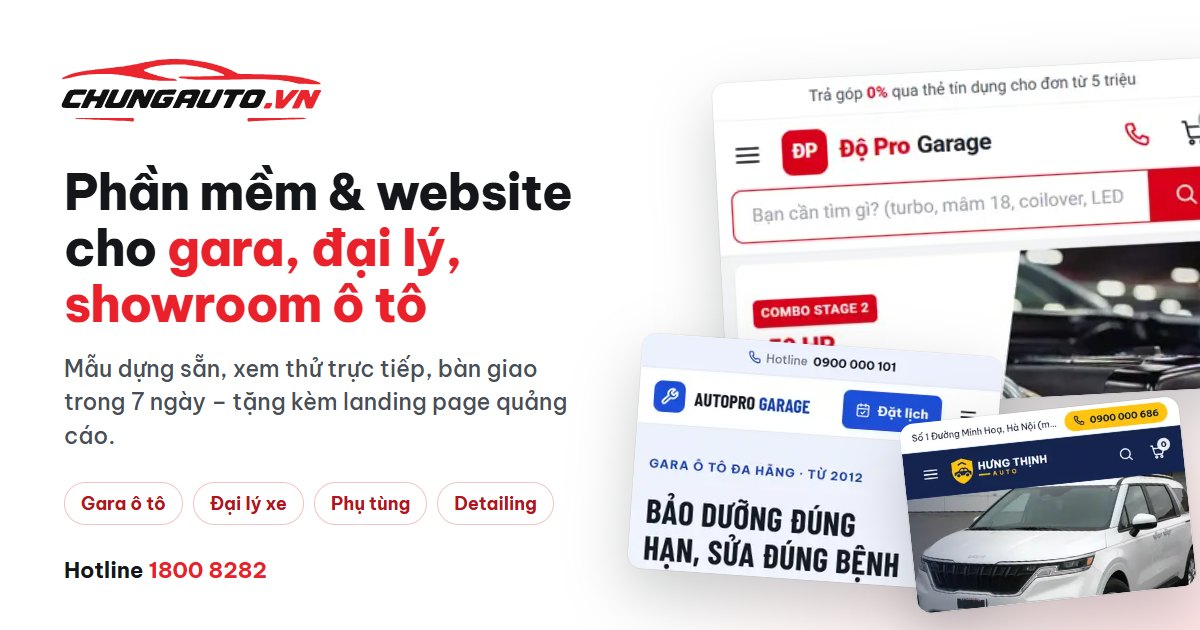
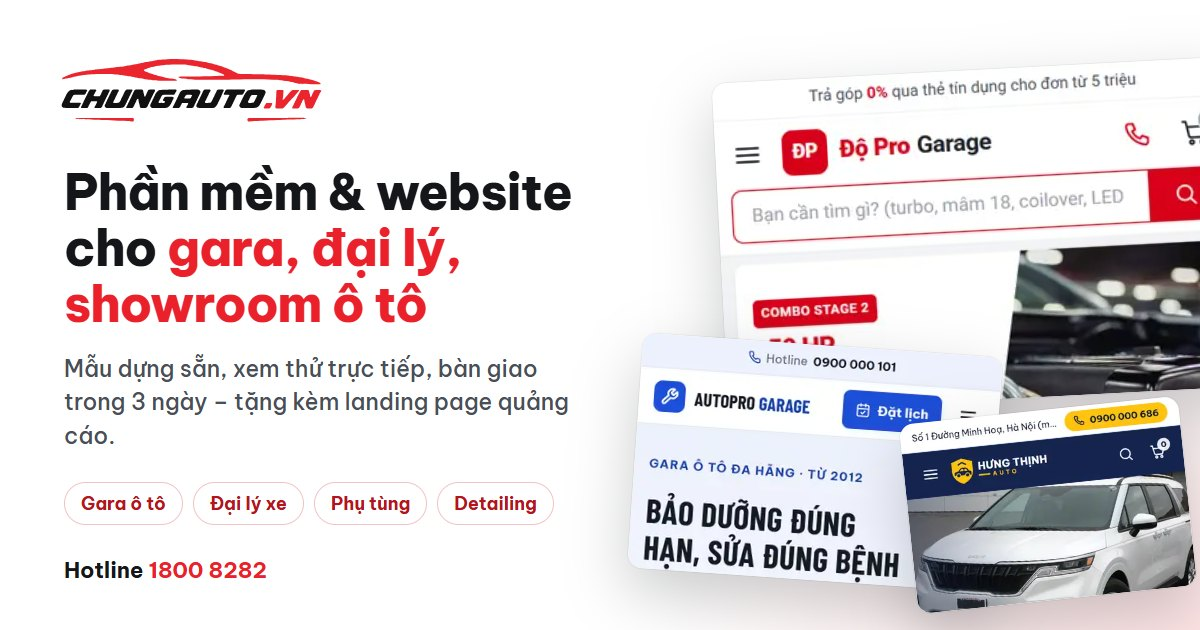
Đổi cam kết bàn giao từ 7 ngày xuống 3 ngày trên toàn trang chủ
- Mục "Quy trình triển khai": tiêu đề 3 ngày; chia lại 4 bước (Ngày 1 sáng, Ngày 1 chiều, Ngày 2, Ngày 3), giữ bố cục 4 cột
- Chân trang, lời khen khách (chỉ số 3 ngày), mô tả SEO (index.html, bootstrap), README
- Sinh lại ảnh chia sẻ og-home.jpg (scripts/og-image.mjs)

Changed region(s): [[0.0925, 0.6032, 0.4933, 0.6635]]

diff --git a/src/data/landing.js b/src/data/landing.js
@@ -12,22 +12,22 @@ export const segments = [
 
 export const steps = [
   {
-    day: 'Ngày 1',
+    day: 'Ngày 1 · Sáng',
     title: 'Chọn mẫu & tư vấn',
     text: 'Bạn chọn mẫu ưng ý trong kho, chuyên viên gọi lại để chốt tính năng: đặt lịch, số chi nhánh, bán phụ tùng.',
   },
   {
-    day: 'Ngày 2',
+    day: 'Ngày 1 · Chiều',
     title: 'Gửi nội dung',
     text: 'Gửi logo, bảng giá dịch vụ, địa chỉ chi nhánh và ảnh xưởng. Chưa có ảnh đẹp? Chúng tôi dùng ảnh minh họa có bản quyền.',
   },
   {
-    day: 'Ngày 3 – 6',
+    day: 'Ngày 2',
     title: 'Dựng phần mềm + landing page',
     text: 'Phần mềm được dựng theo nhận diện của bạn. Song song, chúng tôi làm landing page quảng cáo cho chương trình khuyến mãi bạn chọn.',
   },
   {
-    day: 'Ngày 7',
+    day: 'Ngày 3',
     title: 'Bàn giao & chạy quảng cáo',
     text: 'Gắn tên miền, hướng dẫn quản trị 1-1 và cài sẵn mã đo lường để bạn chạy Facebook Ads, Google Ads ngay.',
   },
@@ -105,8 +105,8 @@ export const testimonials = [
     name: 'Anh Phạm Quốc Huy',
     role: 'Giám đốc Lốp Ắc Quy Huy Phát, Đà Nẵng',
     quote:
-      'Khách tra kích cỡ lốp ngay trên web rồi mới tới cửa hàng, nhân viên đỡ phải tư vấn lại từ đầu. Bàn giao đúng 7 ngày như cam kết.',
-    metric: '7',
+      'Khách tra kích cỡ lốp ngay trên web rồi mới tới cửa hàng, nhân viên đỡ phải tư vấn lại từ đầu. Bàn giao đúng 3 ngày như cam kết.',
+    metric: '3',
     metricLabel: 'ngày từ lúc chọn mẫu đến lúc chạy',
     template: 'Lốp Việt',
   },

diff --git a/index.html b/index.html
@@ -6,7 +6,7 @@
     <meta name="theme-color" content="#ea212b" />
     <!--head:start-->
     <title>Phần mềm quản lý gara ô tô & website showroom | ChungAuto</title>
-    <meta name="description" content="Website và phần mềm dựng sẵn cho gara ô tô, tiệm sửa xe máy, đại lý, showroom xe cũ, cửa hàng phụ kiện. Bàn giao 7 ngày, tặng landing page quảng cáo." />
+    <meta name="description" content="Website và phần mềm dựng sẵn cho gara ô tô, tiệm sửa xe máy, đại lý, showroom xe cũ, cửa hàng phụ kiện. Bàn giao 3 ngày, tặng landing page quảng cáo." />
     <!--head:end-->
     <link rel="icon" href="/brand/favicon.ico" sizes="any" />
     <link rel="apple-touch-icon" href="/brand/logo-icon.png" />

diff --git a/src/data/bootstrap.js b/src/data/bootstrap.js
@@ -7,7 +7,7 @@ import { faqs } from './landing.js'
 export const defaultSeo = {
   title: 'Phần mềm quản lý gara ô tô & website showroom | ChungAuto',
   description:
-    'Website và phần mềm dựng sẵn cho gara ô tô, tiệm sửa xe máy, đại lý, showroom xe cũ, cửa hàng phụ kiện. Bàn giao 7 ngày, tặng landing page quảng cáo.',
+    'Website và phần mềm dựng sẵn cho gara ô tô, tiệm sửa xe máy, đại lý, showroom xe cũ, cửa hàng phụ kiện. Bàn giao 3 ngày, tặng landing page quảng cáo.',
   image: '/brand/og-home.jpg',
 }
 

diff --git a/src/components/Footer.jsx b/src/components/Footer.jsx
@@ -29,7 +29,7 @@ export default function Footer() {
             <li><Link to="/#bang-gia">Bảng giá triển khai</Link></li>
             <li><Link to="/mau-landing-page">Mẫu landing page tặng kèm</Link></li>
             <li><Link to="/mau-phan-mem?ht=rieng">Mẫu website dựng riêng</Link></li>
-            <li><Link to="/#quy-trinh">Quy trình 7 ngày</Link></li>
+            <li><Link to="/#quy-trinh">Quy trình 3 ngày</Link></li>
             <li><Link to="/#hoi-dap">Câu hỏi thường gặp</Link></li>
           </ul>
         </div>

diff --git a/src/pages/Landing.jsx b/src/pages/Landing.jsx
@@ -486,7 +486,7 @@ function Process() {
       <div className="wrap">
         <div className="section-head" data-reveal="up">
           <p className="eyebrow">Quy trình triển khai</p>
-          <h2>Từ lúc chọn mẫu đến khi phần mềm chạy: 7 ngày</h2>
+          <h2>Từ lúc chọn mẫu đến khi phần mềm chạy: 3 ngày</h2>
         </div>
         <ol className="steps" data-stagger="up">
           {steps.map((s, i) => (

diff --git a/README.md b/README.md
@@ -48,7 +48,7 @@ Vai trò: **Quản trị viên** (toàn quyền), **Quản lý** (mọi thứ tr
 
 | Đường dẫn | Nội dung |
 | --- | --- |
-| `/` | Landing page chào hàng: tính năng, mẫu nổi bật, quà tặng landing page, quy trình 7 ngày, bảng giá, đánh giá, hỏi đáp, form tư vấn |
+| `/` | Landing page chào hàng: tính năng, mẫu nổi bật, quà tặng landing page, quy trình 3 ngày, bảng giá, đánh giá, hỏi đáp, form tư vấn |
 | `/mau-phan-mem` | Kho mẫu: mẫu dựng riêng (`projects.js`) xếp trước, rồi mẫu phần mềm. Tìm kiếm (không dấu), lọc theo hình thức, loại hình, tính năng, chi phí; sắp xếp. Hỗ trợ `?key=`, `?loai=`, `?ht=rieng\|phanmem` |
 | `/mau-phan-mem/:slug` | Chi tiết mẫu: xem trước máy tính + điện thoại, đổi bộ màu, "Chọn mẫu này", "Xem thử" |
 | `/demo/:slug` | Xem thử toàn màn hình: đổi thiết bị (máy tính / máy tính bảng / điện thoại), đổi màu, đổi mẫu |
